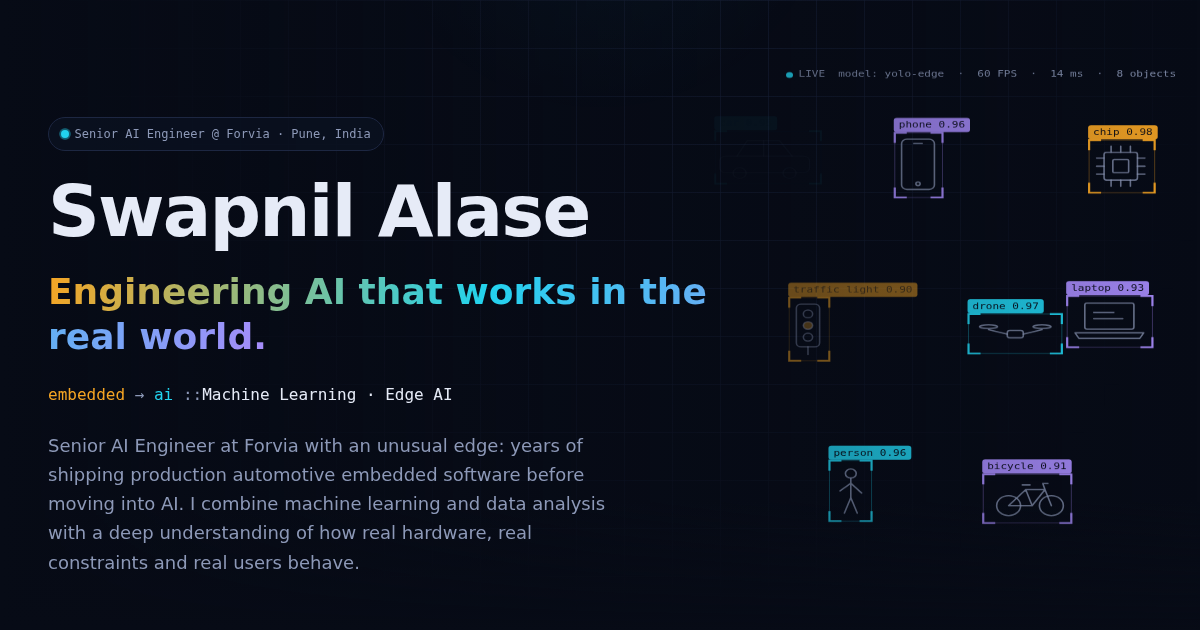
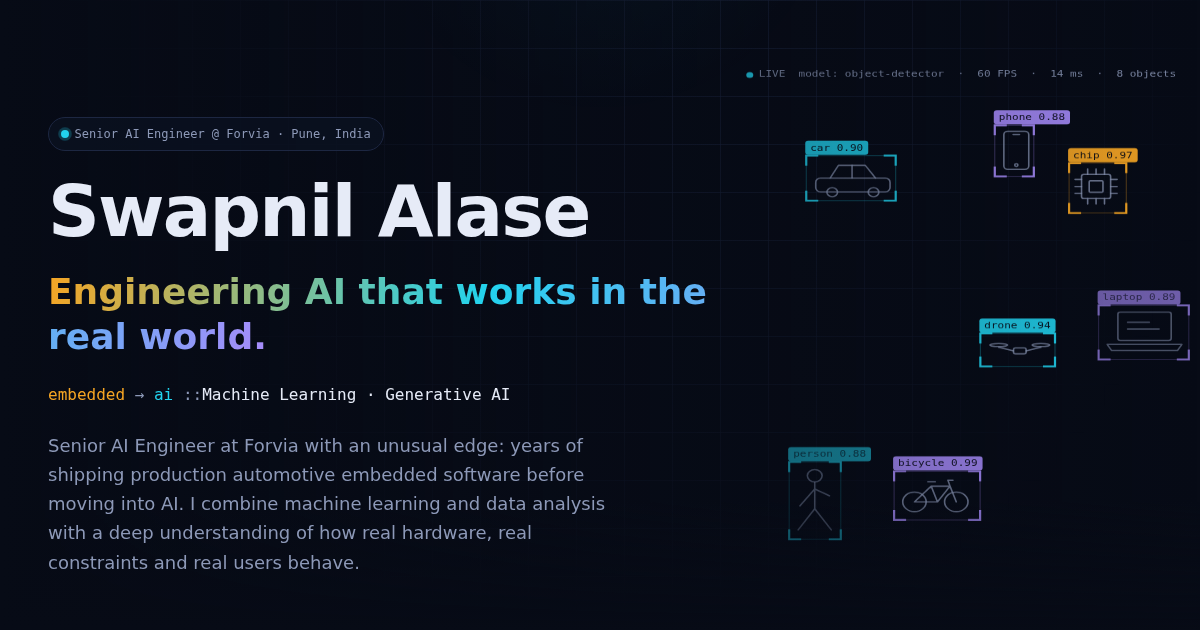
Remove phone, dark-only theme, simplify footer, refocus on Generative AI
- Remove phone number from site, resume page and profile data
- Footer: only '© year name.' with LinkedIn, GitHub and email icons
- Remove RSS feed (page, head link, icon, dependency)
- Dark mode only: remove light theme, toggle and theme script
- Replace Edge AI / on-device wording with Generative AI and ML focus
  (copy, skills, journey, flagship placeholder project, blog post, HUD label)
- Rename flagship project to ai-lab.md (GenAI Lab placeholder)
- Regenerate social preview image; update README, EDITING.md, config comments

Claude-Session: https://claude.ai/code/session_01JGvRDvV2LdRbFyDFDb2Ad9

diff --git a/src/data/profile.ts b/src/data/profile.ts
@@ -19,7 +19,7 @@ export const profile = {
   rotating: [
     'Machine Learning',
     'Data-driven products',
-    'Edge AI',
+    'Generative AI',
     'Automotive intelligence',
     'Python · SQL · Statistics',
   ],
@@ -32,13 +32,10 @@ export const profile = {
   about: [
     'I started my career close to the metal — writing Embedded C, bringing up Bluetooth links between car radios and phones, and hardening infotainment systems for OEMs like Volvo, Renault, Mack Trucks and Stellantis.',
     'Along the way I realised the most interesting problems were no longer just about moving bytes reliably, but about making systems that learn. So I moved into Forvia’s AI team and began an MS in Artificial Intelligence & Machine Learning (Scaler Neovarsity · Woolf University).',
-    'Today I work on AI while keeping the engineering discipline that embedded taught me: measure everything, respect constraints, and ship things that work in the real world. My north star is AI that runs where the data is born — on the edge.',
+    'Today I work on AI while keeping the engineering discipline that embedded taught me: measure everything, respect constraints, and ship things that work in the real world. My focus now is Generative AI and machine learning: building AI systems that are reliable, measurable and useful in the real world.',
   ],
 
-  /** Toggle the phone number on/off here. */
-  showPhone: true,
   email: 'swapnilalase07@gmail.com',
-  phone: '+91 96895 47060',
 
   socials: {
     linkedin: 'https://www.linkedin.com/in/swapnilalase/',
@@ -69,7 +66,7 @@ export const profile = {
     { stage: 'Specialise', title: 'Embedded Systems Design', text: 'PG-Diploma at CDAC Pune — microcontrollers, RTOS, communication protocols.', kind: 'embedded' },
     { stage: 'Ship', title: 'Automotive Embedded @ Forvia', text: 'Infotainment and Bluetooth software for global OEMs; led a small team on secure phone-to-radio communication.', kind: 'embedded' },
     { stage: 'Transform', title: 'AI Team @ Forvia + MS in AI & ML', text: 'Internal move into AI. Machine learning, statistics and data analysis applied to automotive products.', kind: 'ai' },
-    { stage: 'Next', title: 'Edge AI', text: 'Intelligence that runs on the device — where embedded and AI finally meet.', kind: 'next' },
+    { stage: 'Next', title: 'Generative AI', text: 'Focused on Generative AI and machine learning, bringing embedded-grade engineering discipline to AI systems.', kind: 'next' },
   ],
 } as const;
 
@@ -103,7 +100,7 @@ export const experience: Job[] = [
         // e.g. 'Built a Python pipeline that classifies X from vehicle logs, cutting triage time by 40%.'
         points: [
           'Applying machine learning and statistical analysis to automotive and infotainment data.',
-          'Bridging AI models with embedded platforms, bringing hands-on knowledge of in-vehicle systems to the AI team.',
+          'Bringing production-engineering discipline from automotive software to AI development.',
         ],
       },
     ],
@@ -158,11 +155,12 @@ export const experience: Job[] = [
 export const skills = {
   ai: {
     title: 'AI · ML · Data',
+    // TODO (Swapnil): add the Generative AI tools/frameworks you actually use (only real ones).
     items: ['Python', 'SQL', 'NumPy', 'Pandas', 'Scikit-learn', 'Matplotlib', 'Seaborn', 'Jupyter', 'Statistics', 'Hypothesis Testing', 'EDA', 'Data Visualization', 'Generative AI'],
   },
   bridge: {
-    title: 'Edge AI — where they meet',
-    items: ['On-device intelligence', 'Sensor & vehicle data', 'Resource-aware ML', 'Reliability engineering', 'Secure data pipelines'],
+    title: 'Engineering foundations',
+    items: ['Reliability engineering', 'Working within constraints', 'Measure everything', 'Secure by design', 'Cross-team delivery'],
   },
   embedded: {
     title: 'Embedded · Automotive',

diff --git a/src/styles/global.css b/src/styles/global.css
@@ -1,22 +1,8 @@
 @import "tailwindcss";
 @plugin "@tailwindcss/typography";
 
-@custom-variant dark (&:where(.dark, .dark *));
-
 /* ───────────── Design tokens (edit colours here) ───────────── */
 :root {
-  --bg: #f7f8fc;
-  --bg-soft: #eef1f8;
-  --card: #ffffff;
-  --border: #dde2ee;
-  --fg: #0d1426;
-  --muted: #5a6480;
-  --amber: #c77a00;   /* embedded / circuit */
-  --cyan: #0891b2;    /* AI / neural */
-  --violet: #7c3aed;  /* AI / neural */
-  --glow: rgba(8, 145, 178, 0.10);
-}
-:root.dark {
   --bg: #070b16;
   --bg-soft: #0c1222;
   --card: #0f1629;
@@ -49,9 +35,8 @@ html {
   scroll-padding-top: 5rem;
   background: var(--bg);
   color: var(--fg);
-  color-scheme: light;
+  color-scheme: dark;
 }
-html.dark { color-scheme: dark; }
 
 body {
   background: var(--bg);

diff --git a/README.md b/README.md
@@ -3,18 +3,18 @@
 My personal site: **Senior AI Engineer**, building intelligent systems from silicon to models.
 Built with [Astro](https://astro.build) + Tailwind CSS and hosted free on **GitHub Pages**.
 
-🌐 Live: https://swapnilalase25.github.io/CV/ (later: https://swapnilalase.cv)
+🌐 Live: https://swapnilalase.tech
 
 > ✏ **Want to change something?** Read **[EDITING.md](EDITING.md)**. Almost everything is plain text or Markdown and can be edited in the GitHub website.
 
 ---
 
 ## Features
-- Dark "circuit → neural" design with an animated hero (embedded traces flowing into a neural network), plus a light-mode toggle
+- Dark "circuit → neural" design with an animated hero (embedded traces flowing into a neural network)
 - Sections: About & journey, experience, projects, skills, education, blog, contact
 - `/projects` and `/blog`: each item is one Markdown file
 - `/resume`: a print-friendly CV page ("Print / Save as PDF")
-- SEO: meta tags, social preview image, sitemap, RSS feed and JSON-LD `Person` schema
+- SEO: meta tags, social preview image, sitemap and JSON-LD `Person` schema
 - Fast static HTML, mobile-first, respects `prefers-reduced-motion`
 
 ## Project structure
@@ -32,7 +32,7 @@ astro.config.mjs           ← site URL + base path
 ## Run locally (optional)
 ```bash
 npm install
-npm run dev       # http://localhost:4321/CV/
+npm run dev       # http://localhost:4321/
 npm run build     # production build into dist/
 ```
 
@@ -41,16 +41,9 @@ npm run build     # production build into dist/
 2. *Settings → Pages → Build and deployment → Source:* **GitHub Actions**.
 3. Make sure the code is on the `main` branch. Every push to `main` deploys automatically (see the *Actions* tab).
 
-## Custom domain (`swapnilalase.cv`)
-Yes, this works with GitHub Pages:
-1. Buy the domain from a registrar that sells `.cv` (check the renewal price, not just the first-year price).
-2. At the registrar's DNS settings add:
-   - `A` records for `@` → `185.199.108.153`, `185.199.109.153`, `185.199.110.153`, `185.199.111.153`
-   - (optional IPv6) `AAAA` for `@` → `2606:50c0:8000::153`, `2606:50c0:8001::153`, `2606:50c0:8002::153`, `2606:50c0:8003::153`
-   - `CNAME` for `www` → `swapnilalase25.github.io`
-3. Create a file `public/CNAME` containing just `swapnilalase.cv`.
-4. In `astro.config.mjs`, set `site: 'https://swapnilalase.cv'` and `base: '/'`.
-5. *Settings → Pages → Custom domain* → `swapnilalase.cv` → wait for the DNS check → tick **Enforce HTTPS**.
-6. Recommended: verify the domain under your GitHub account's *Settings → Pages* to prevent takeovers.
-
-With a custom domain you **don't** need to rename the repo. If you ever want `https://swapnilalase25.github.io/` without `/CV`, the repo must be named exactly `swapnilalase25.github.io` (it must match your username), and `base` becomes `'/'`.
+## Custom domain (`swapnilalase.tech`)
+The site is served from `swapnilalase.tech`:
+- `public/CNAME` contains `swapnilalase.tech`.
+- `astro.config.mjs` has `site: 'https://swapnilalase.tech'` (no `base`).
+- DNS at the registrar: `A` records for `@` → `185.199.108.153`, `185.199.109.153`, `185.199.110.153`, `185.199.111.153`, and a `CNAME` for `www` → `swapnilalase25.github.io`.
+- *Settings → Pages → Custom domain* → `swapnilalase.tech`, with **Enforce HTTPS** ticked.

diff --git a/EDITING.md b/EDITING.md
@@ -12,7 +12,7 @@ Edit **`src/data/profile.ts`**. It is organised in blocks:
 |---|---|
 | Name, role, headline, rotating words, summary | `profile` at the top |
 | About paragraphs | `profile.about` |
-| Email / phone / show-hide phone | `profile.email`, `profile.phone`, `profile.showPhone` |
+| Email | `profile.email` |
 | Stats strip (3+ years in AI…) | `profile.stats` |
 | Journey timeline | `profile.journey` |
 | Jobs | `experience` |
@@ -42,12 +42,12 @@ Create a file `src/content/projects/my-project-name.md` (*Add file → Create ne
 
 ```markdown
 ---
-title: "Driver Drowsiness Detection on Raspberry Pi"
+title: "Customer Support Chatbot with RAG"
 summary: "One or two sentences recruiters will read: problem, approach, result."
 category: ai            # ai | embedded | foundation
 status: live            # live | building | archived
-tags: ["Python", "PyTorch", "OpenCV"]
-metrics: ["94% accuracy", "18 ms / frame"]
+tags: ["Python", "LLMs", "RAG"]
+metrics: ["your key number", "another result"]
 github: "https://github.com/swapnilalase25/your-repo"
 demo: "https://your-demo-link"        # optional, delete the line if none
 featured: true          # true = shown on the home page (top 3 by order)
@@ -70,8 +70,7 @@ roadmap:                # optional progress stepper; status = done | active | to
 ## Results
 ...
 ```
-Tip: to put an image in a project/post, upload it to `public/images/` and write `![Alt text](/CV/images/file.png)`.
-(After moving to the custom domain, use `/images/file.png`.)
+Tip: to put an image in a project/post, upload it to `public/images/` and write `![Alt text](/images/file.png)`.
 
 ## 5. Write a blog post
 Create `src/content/blog/my-post-title.md`:
@@ -81,7 +80,7 @@ Create `src/content/blog/my-post-title.md`:
 title: "What I learned deploying a model on a microcontroller"
 description: "One-line teaser shown on cards and in link previews."
 date: 2026-10-15
-tags: ["edge-ai", "tinyml"]
+tags: ["genai", "llm"]
 draft: false
 ---
 
@@ -91,10 +90,10 @@ Your text in **Markdown**. Use `## Headings` (they build the table of contents).
 print("code blocks get syntax highlighting")
 ```
 ```
-The newest 3 posts automatically appear on the home page and in the RSS feed.
+The newest 3 posts automatically appear on the home page.
 
 ## 6. The spotlight AI project
-The big card with the live neural-network playground comes from `src/content/projects/ai-edge-lab.md`
+The big card with the live neural-network playground comes from `src/content/projects/ai-lab.md`
 (`spotlight: true`, `playground: true`). As you make progress, update its `roadmap` statuses
 (`todo` → `active` → `done`); the progress bar updates automatically.
 When your first real AI project is ready, set `spotlight: true` on that project and `false` (or `draft: true`) on this placeholder.

diff --git a/src/content/blog/from-bluetooth-stacks-to-neural-nets.md b/src/content/blog/from-bluetooth-stacks-to-neural-nets.md
@@ -2,7 +2,7 @@
 title: "From Bluetooth stacks to neural nets: why an embedded engineer moved into AI"
 description: "Years of shipping automotive embedded software taught me lessons that most AI tutorials skip. Here's why I made the move, and what I'm carrying with me."
 date: 2026-09-29
-tags: ["career", "embedded", "ai", "edge-ai"]
+tags: ["career", "embedded", "ai", "genai"]
 ---
 
 For years my world was measured in bytes and milliseconds. I wrote Embedded C for car infotainment systems,
@@ -29,16 +29,17 @@ So I started an MS in Artificial Intelligence & Machine Learning and moved into 
 3. **Reliability is the product.** A model that is 95% accurate in a notebook and crashes in production is worth nothing.
 4. **Know the whole stack.** Understanding where data is born, on the device, helps you design better features and pipelines.
 
-## Where I'm heading: Edge AI
+## Where I'm heading: Generative AI and ML
 
-The most exciting place for me is where both worlds meet: **running intelligence on the device itself**.
-Quantised models on microcontrollers, on-device speech in vehicles, anomaly detection right next to the sensor.
+The most exciting place for me right now is **Generative AI and machine learning**: building AI systems that
+are not just impressive in a demo, but reliable, measurable and useful in the real world. That is exactly where
+an embedded engineer's habits (test everything, respect constraints, never ship a flaky system) pay off.
 
 I'll document everything I build on this blog, including the failures.
 
 ```python
 # The journey, in one line
-career = ["Embedded C", "Bluetooth", "Infotainment"] + ["Python", "ML", "Edge AI"]
+career = ["Embedded C", "Bluetooth", "Infotainment"] + ["Python", "ML", "Generative AI"]
 ```
 
 Thanks for reading. If you're making a similar move, [reach out](https://www.linkedin.com/in/swapnilalase/).

diff --git a/src/content/projects/ai-lab.md b/src/content/projects/ai-lab.md
@@ -1,0 +1,32 @@
+---
+title: "GenAI Lab — my flagship AI project"
+summary: "My next flagship: an end-to-end Generative AI / machine-learning project, from the first idea and data to a live demo, built in public and documented step by step on the blog."
+category: ai
+status: building
+tags: ["Python", "Generative AI", "Machine Learning"]
+metrics: ["In progress"]
+featured: true
+spotlight: true
+playground: true
+order: 1
+roadmap:
+  - { label: "Choose the problem & collect data", status: active }
+  - { label: "Build a baseline", status: todo }
+  - { label: "Evaluate & improve", status: todo }
+  - { label: "Ship a live demo", status: todo }
+  - { label: "Write it up on the blog", status: todo }
+---
+
+## Why this project
+
+Most AI portfolios stop at a notebook. I want to show the whole journey:
+a real problem, honest evaluation, and something you can actually try.
+
+## Plan
+
+1. Pick a problem worth solving and collect the data.
+2. Build a simple baseline so I know what "better" means.
+3. Improve it and measure the results properly.
+4. Ship a live demo and write up everything I learned on the blog.
+
+*This page will be updated as the project progresses.*

diff --git a/src/content/projects/iot-gateway.md b/src/content/projects/iot-gateway.md
@@ -14,4 +14,4 @@ order: 40
 Early-career work: an internship at Axonet Emsys building industrial IoT gateways, and a published paper
 (IRJET, 2017) on a Raspberry Pi based digital signage board.
 
-These projects taught me how data is born on devices — the same data that edge AI systems learn from today.
+These projects taught me how data is born on devices — the kind of data machine-learning systems learn from today.
